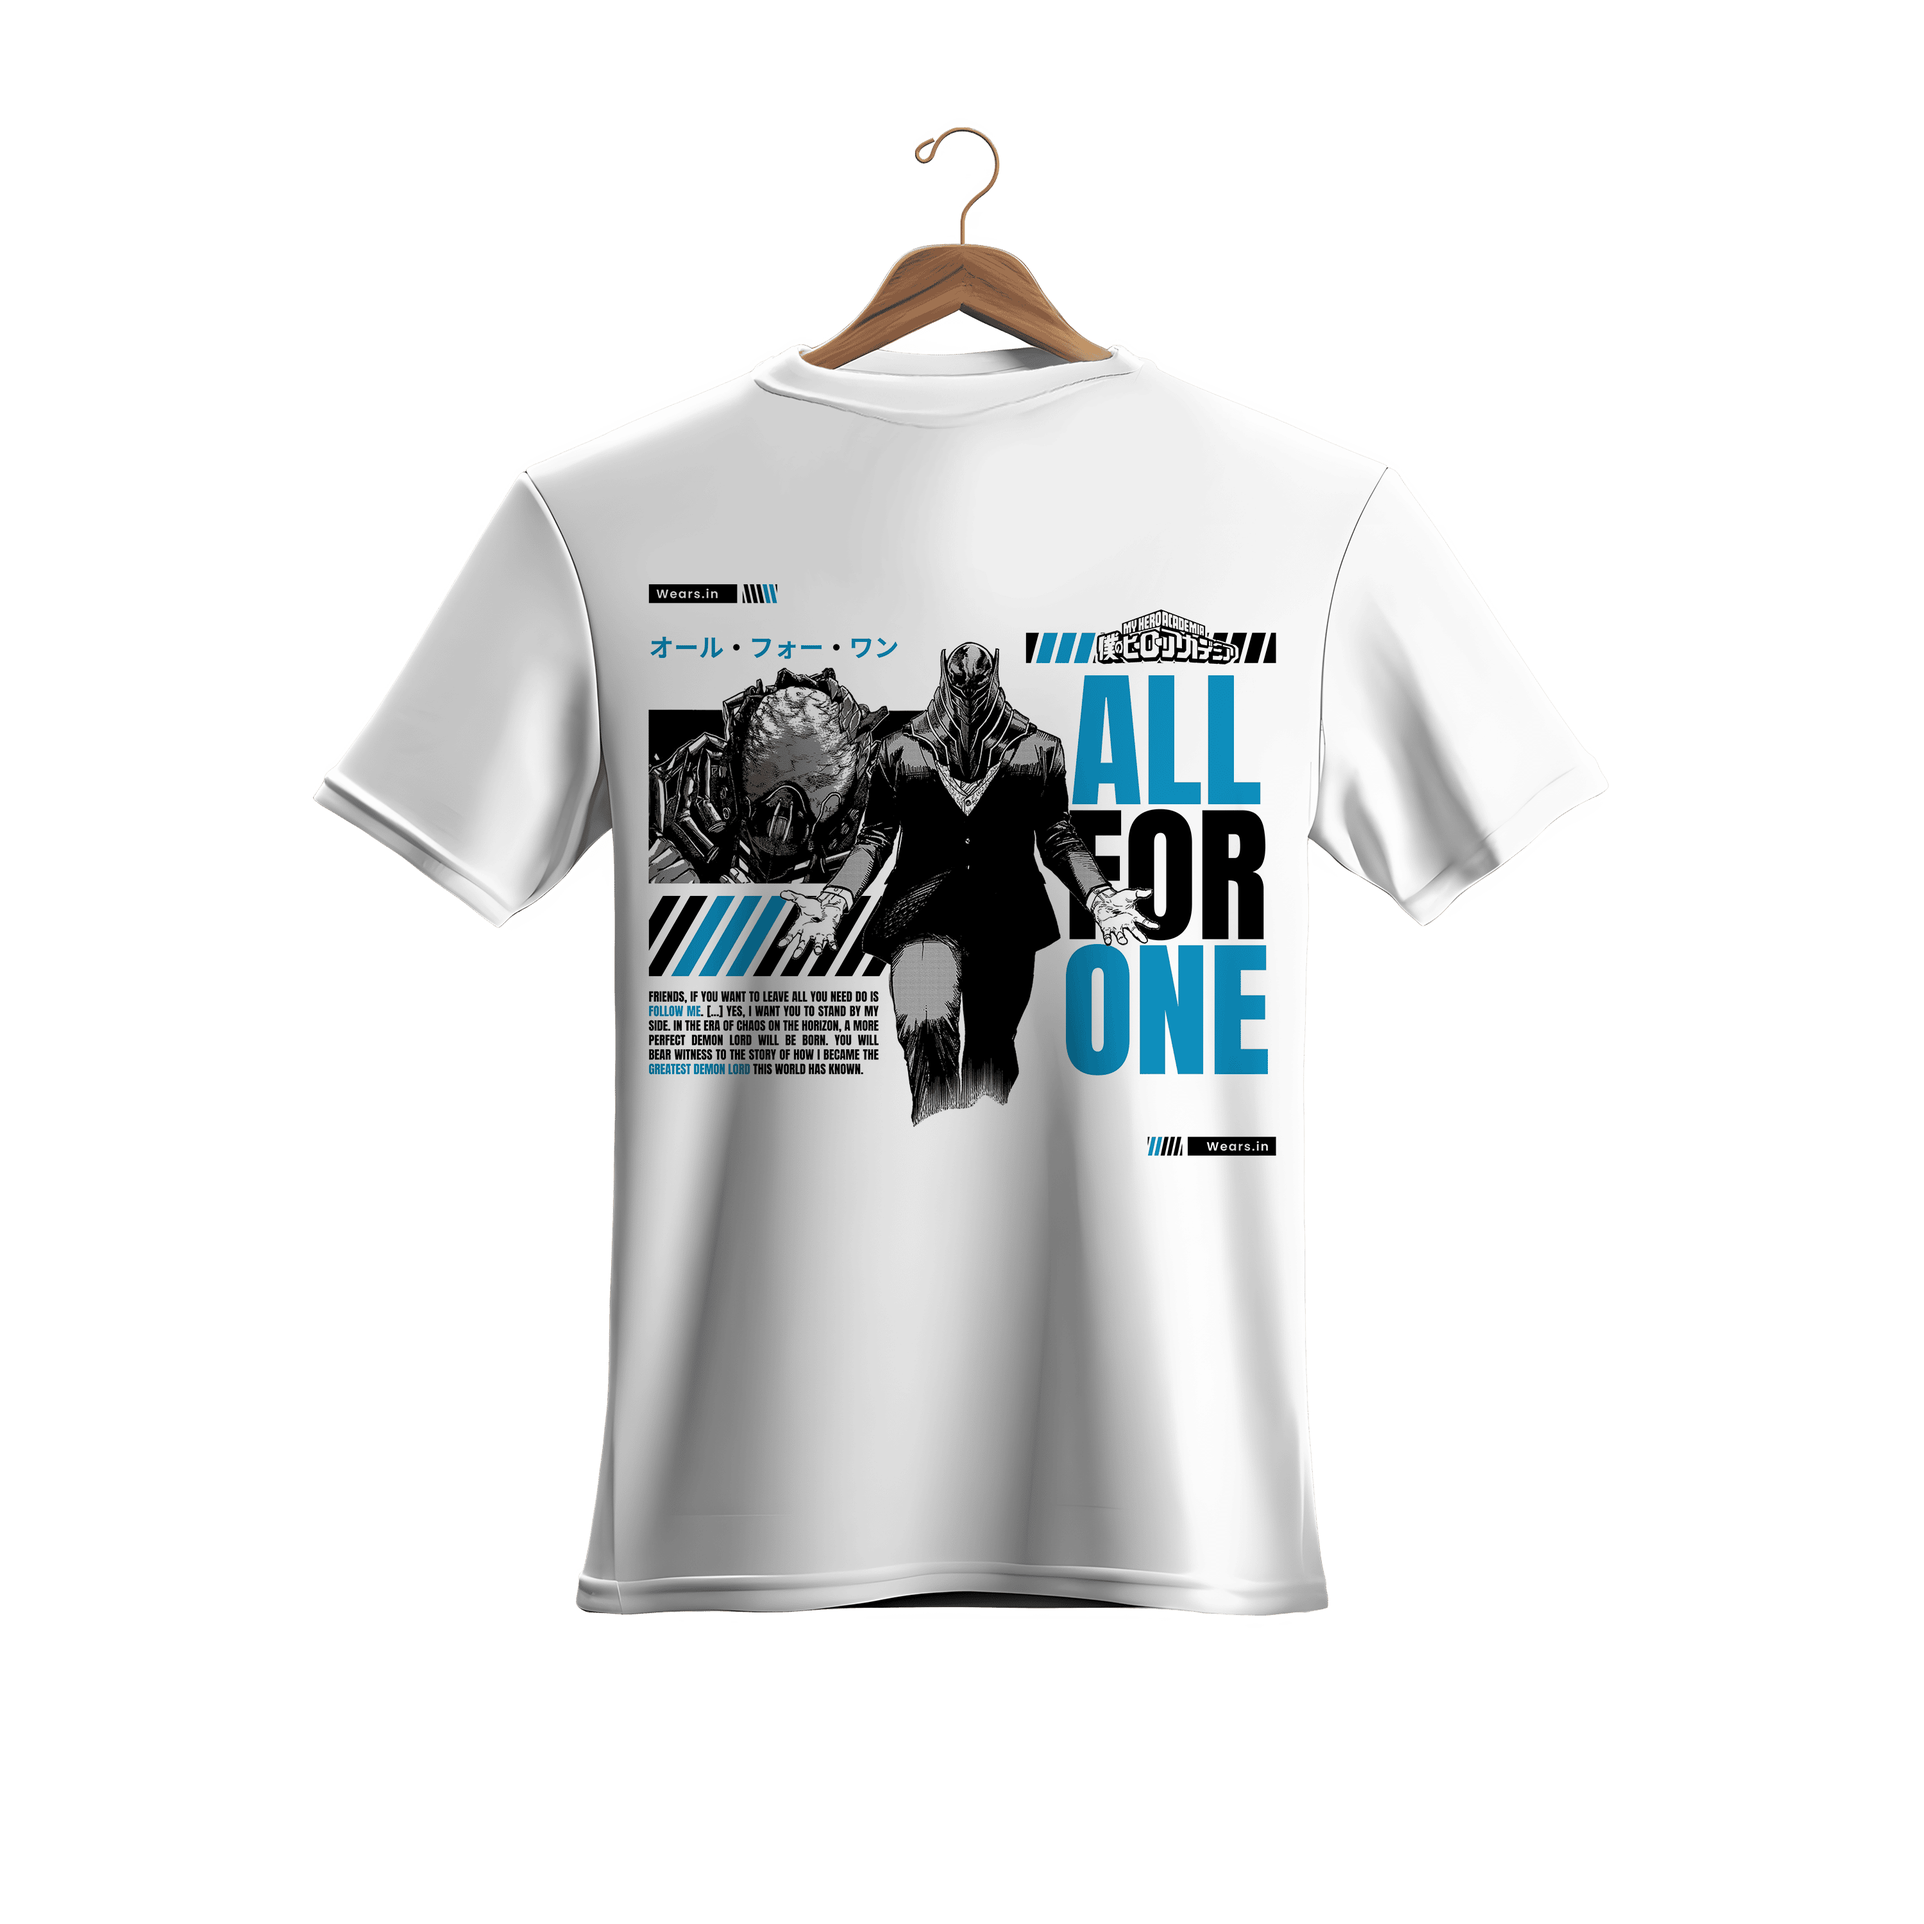
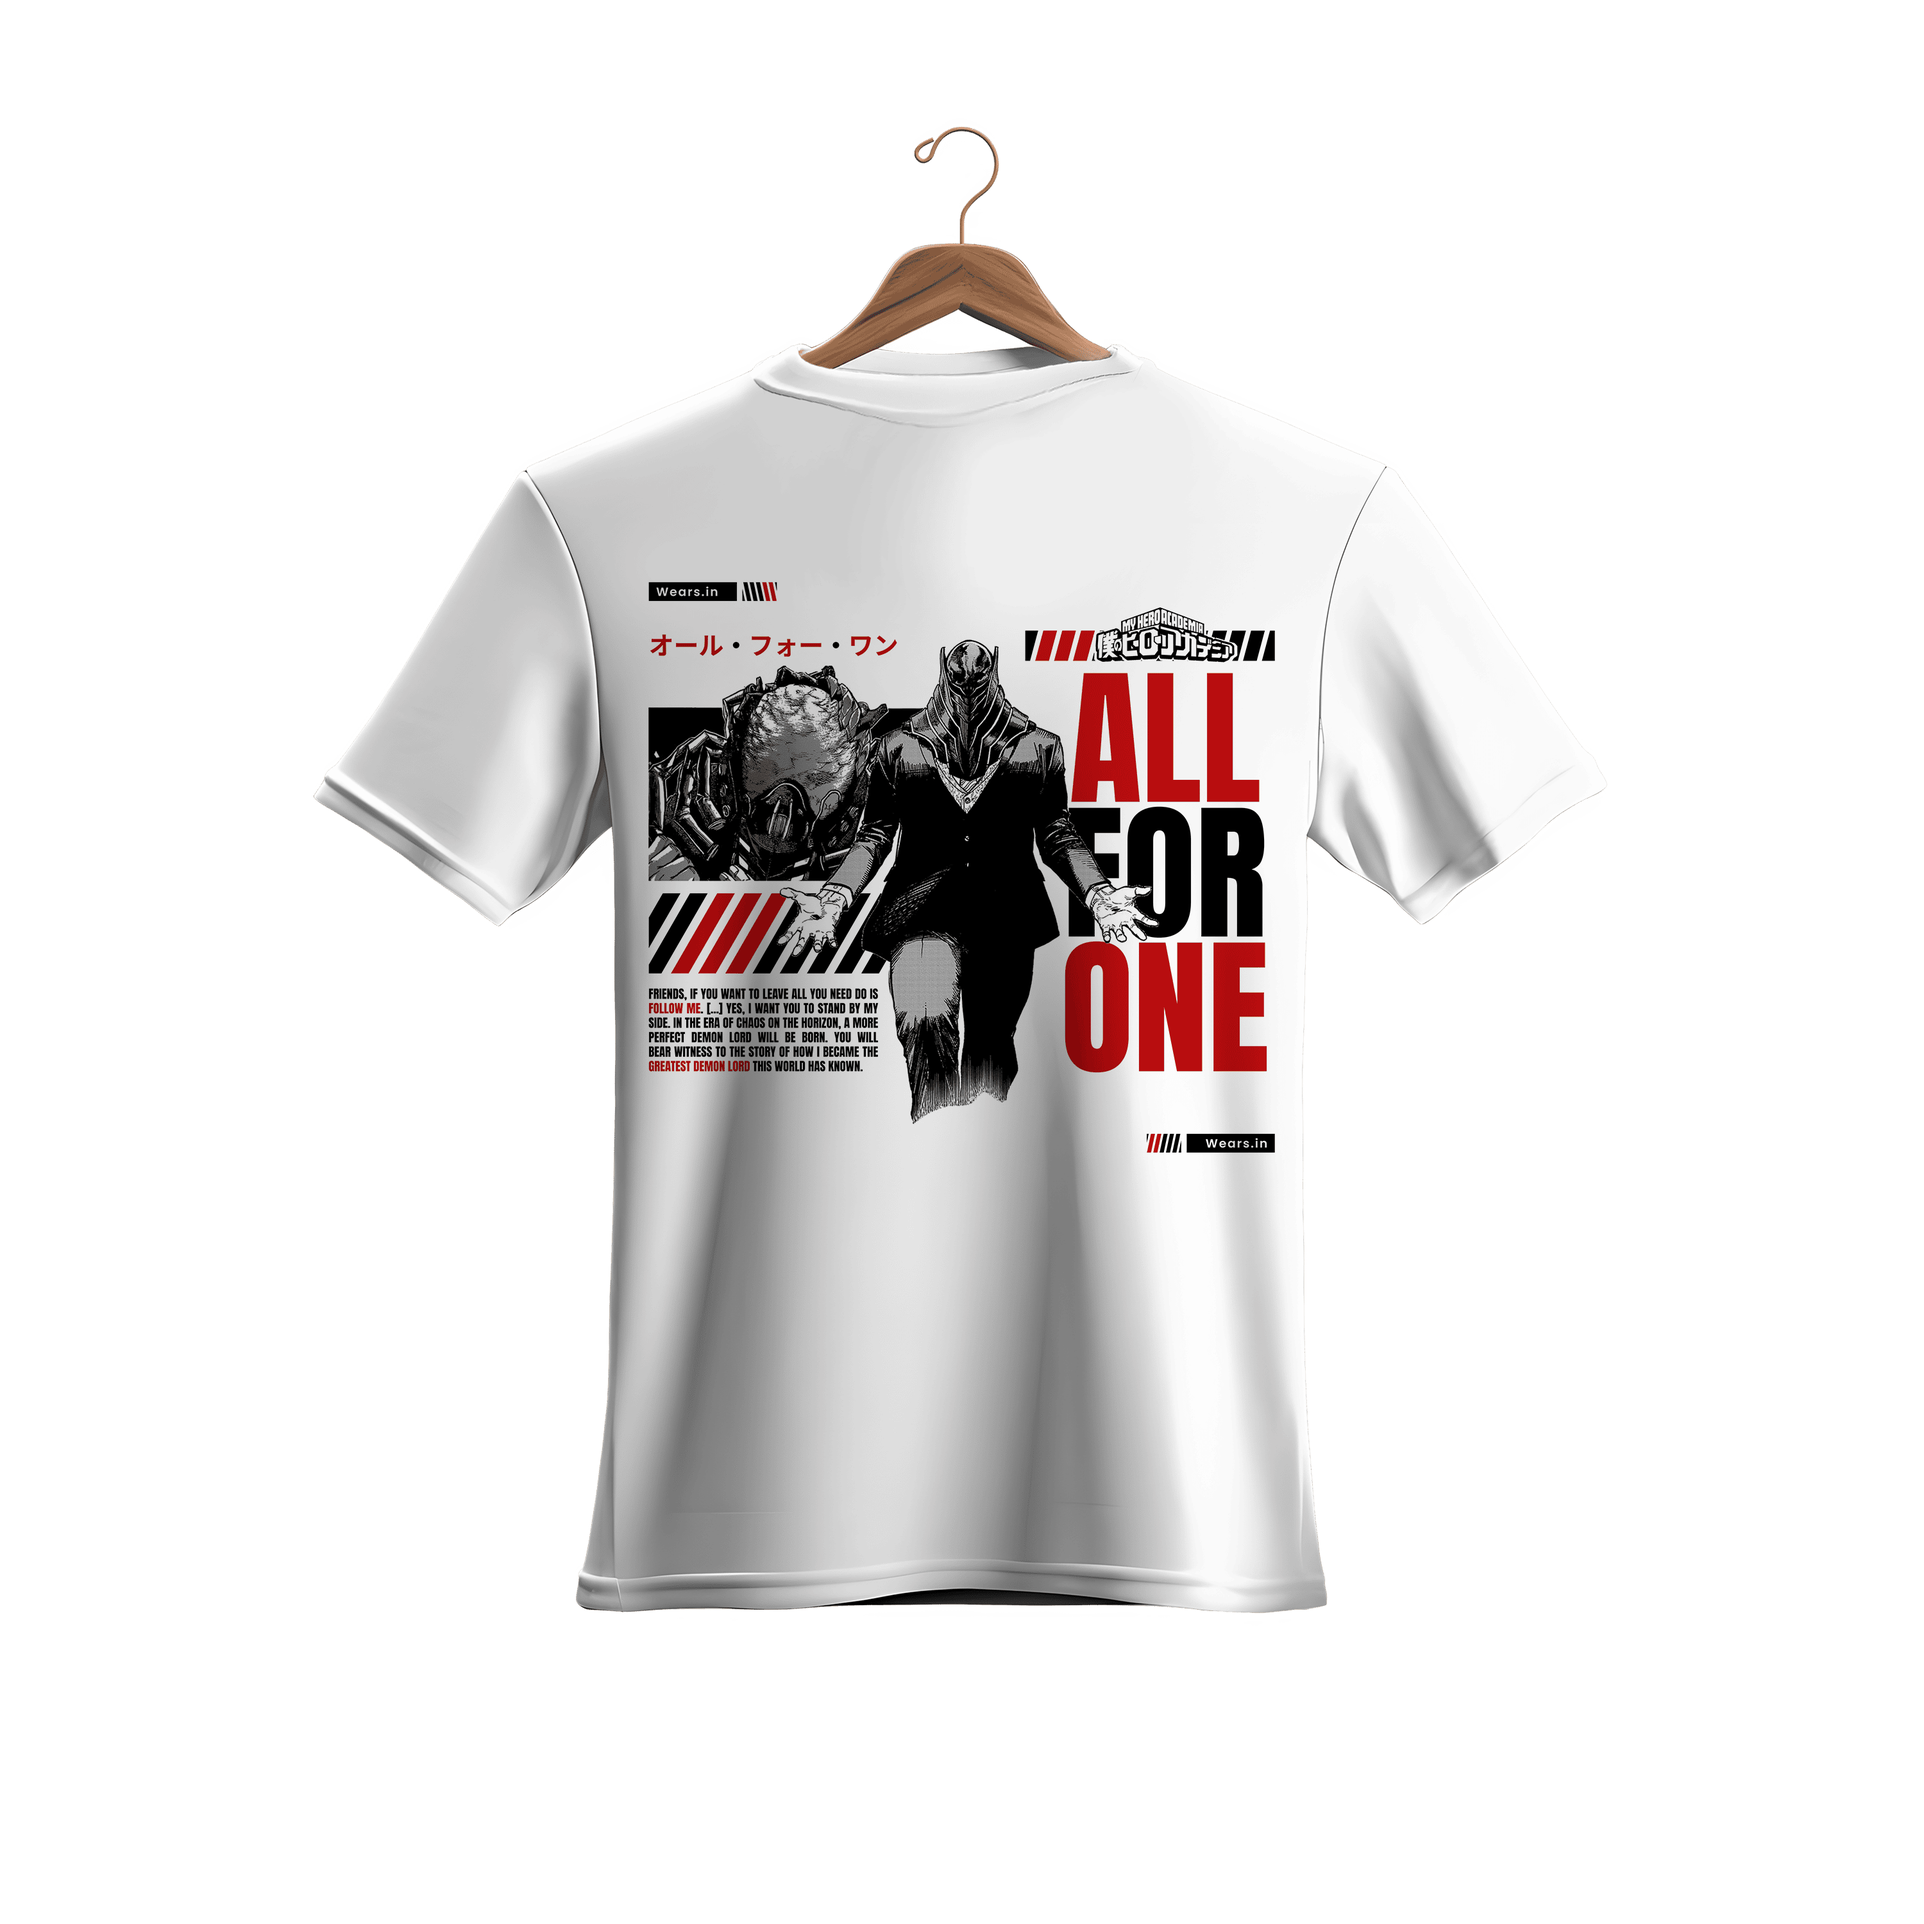
feat: update catalog

diff --git a/components/ui/CatalogCard.tsx b/components/ui/CatalogCard.tsx
@@ -1,10 +1,19 @@
 'use client'
 
 import Image from "next/image";
+import { useState } from "react";
 
 interface ICatalogCardProps {
-  imageFront: string;
-  imageBack: string;
+  images: {
+    light: {
+      front: string;
+      back: string;
+    }
+    dark: {
+      front: string;
+      back: string;
+    }
+  }
   name: string;
   material: string;
   size: string[] | string;
@@ -12,7 +21,9 @@ interface ICatalogCardProps {
   stock: string | number;
 }
 
-export const CatalogCard = ({ imageFront, imageBack, name, material, price, size, stock }: ICatalogCardProps) => {
+export const CatalogCard = ({ images, name, material, price, size, stock }: ICatalogCardProps) => {
+  const [selectedColor, setSelectedColor] = useState<"light" | "dark">("light");
+
   return (
     <div className="flex flex-col items-center mx-4">
       <div className="bg-color-3 px-4 py-4 w-full font-staatliches tracking-wide shadow-lg rounded-2xl border-color-4 border-2">
@@ -22,8 +33,8 @@ export const CatalogCard = ({ imageFront, imageBack, name, material, price, size
         </div>
         <div className="bg-color-1 w-full h-[360px] mb-3 rounded-2xl">
           <div className="relative top-10 w-[350px] mx-auto h-[360px]">
-            <Image src={imageBack} width={350} height={3025} alt="model-1" priority className="absolute -top-8 -left-[15%] max-w-[200%]" />
-            <Image src={imageFront} width={350} height={3025} alt="model-1" priority className="absolute left-[12%] max-w-[200%]" />
+            <Image src={images[selectedColor].back} width={350} height={3025} alt="model-1" priority className="absolute -top-8 -left-[15%] max-w-[200%]" />
+            <Image src={images[selectedColor].front} width={350} height={3025} alt="model-1" priority className="absolute left-[12%] max-w-[200%]" />
           </div>
         </div>
         <h3 className="bg-color-1 p-2 text-center font-bold uppercase text-xl mb-2 rounded-full">{name}</h3>
@@ -41,10 +52,12 @@ export const CatalogCard = ({ imageFront, imageBack, name, material, price, size
               <span className="inline-block min-w-16">STOCK:</span>
               <span>{stock}</span>
             </div>
-            <div className="flex p-1 px-4 my-1 rounded-full gap-2 justify-between">
+            <div className="flex p-1 px-4 my-1 rounded-full gap-2 justify-around">
               <span className="inline-block flex-1">COLOR:</span>
-              <div className="bg-color-1 p-3 w-1/3 rounded-full"></div>
-              <div className="bg-color-2 p-3 w-1/3 rounded-full"></div>
+              <fieldset className="flex gap-2">
+                <div id={name + "color"} className={`bg-color-1 p-3 w-[60px] rounded-full border-2 cursor-pointer ${selectedColor === "light" && "border-blue-600"}`} onClick={() => setSelectedColor("light")} />
+                <div id={name + "color"} className={`bg-color-2 p-3 w-[60px] rounded-full border-2 cursor-pointer ${selectedColor === "dark" && "border-blue-600"}`} onClick={() => setSelectedColor("dark")} />
+              </fieldset>
             </div>
           </div>
           <div className="bg-color-1 p-1 px-4 my-1 rounded-full">

diff --git a/constant/products.ts b/constant/products.ts
@@ -4,17 +4,33 @@ export const PRODUCTS = [
     price: "Rp 120.000,-",
     size: ["S", "M", "L", "XL"],
     material: "Cotton 24s",
-    imageFront: "/products/techno-evolved_back_light.png",
-    imageBack: "/products/techno-evolved_front_light.png",
+    images: {
+      light: {
+        front: "/products/techno-evolved_back_light.png",
+        back: "/products/techno-evolved_front_light.png",
+      },
+      dark: {
+        front: "/products/techno-evolved_back_dark.png",
+        back: "/products/techno-evolved_front_dark.png",
+      }
+    },
     stock: 12
   },
   {
-    name: "Techno Evolved",
+    name: "Techno Evolved II",
     price: "Rp 120.000,-",
     size: ["S", "M", "L", "XL"],
     material: "Cotton 24s",
-    imageFront: "/products/techno-evolved_back_dark.png",
-    imageBack: "/products/techno-evolved_front_dark.png",
+    images: {
+      light: {
+        front: "/products/techno-evolved-ii_back_light.png",
+        back: "/products/techno-evolved-ii_front_light.png",
+      },
+      dark: {
+        front: "/products/techno-evolved-ii_back_dark.png",
+        back: "/products/techno-evolved-ii_front_dark.png",
+      }
+    },
     stock: 12
   },
   {
@@ -22,17 +38,33 @@ export const PRODUCTS = [
     price: "Rp 120.000,-",
     size: ["S", "M", "L", "XL"],
     material: "Cotton 24s",
-    imageFront: "/products/all-for-one_back_light.png",
-    imageBack: "/products/all-for-one_front_light.png",
+    images: {
+      light: {
+        front: "/products/all-for-one_back_light.png",
+        back: "/products/all-for-one_front_light.png",
+      },
+      dark: {
+        front: "/products/all-for-one_back_dark.png",
+        back: "/products/all-for-one_front_dark.png",
+      }
+    },
     stock: 12
   },
   {
-    name: "All For One",
+    name: "Femto",
     price: "Rp 120.000,-",
     size: ["S", "M", "L", "XL"],
     material: "Cotton 24s",
-    imageFront: "/products/all-for-one_back_dark.png",
-    imageBack: "/products/all-for-one_front_dark.png",
+    images: {
+      light: {
+        front: "/products/femto_back_light.png",
+        back: "/products/femto_front_light.png",
+      },
+      dark: {
+        front: "/products/femto_back_dark.png",
+        back: "/products/femto_front_dark.png",
+      }
+    },
     stock: 12
-  }
+  },
 ]

diff --git a/app/page.tsx b/app/page.tsx
@@ -10,13 +10,8 @@ import Slider from "react-slick";
 
 export default function Home() {
   const settings = {
-    autoplay: true,
-    autoplaySpeed: 2000,
-    dots: false,
-    infinite: true,
+    dots: true,
     speed: 800,
-    centerMode: true,
-    centerPadding: "150px",
     slidesToShow: 4,
     slidesToScroll: 1,
     initialSlide: 0,
@@ -25,17 +20,14 @@ export default function Home() {
       {
         breakpoint: 1720,
         settings: {
-          centerPadding: "8px",
           slidesToShow: 3,
           slidesToScroll: 3,
-          infinite: true,
           dots: true
         }
       },
       {
         breakpoint: 1000,
         settings: {
-          centerPadding: "8px",
           slidesToShow: 2,
           slidesToScroll: 2,
           initialSlide: 2
@@ -44,7 +36,6 @@ export default function Home() {
       {
         breakpoint: 480,
         settings: {
-          centerPadding: "8px",
           slidesToShow: 1,
           slidesToScroll: 1
         }
